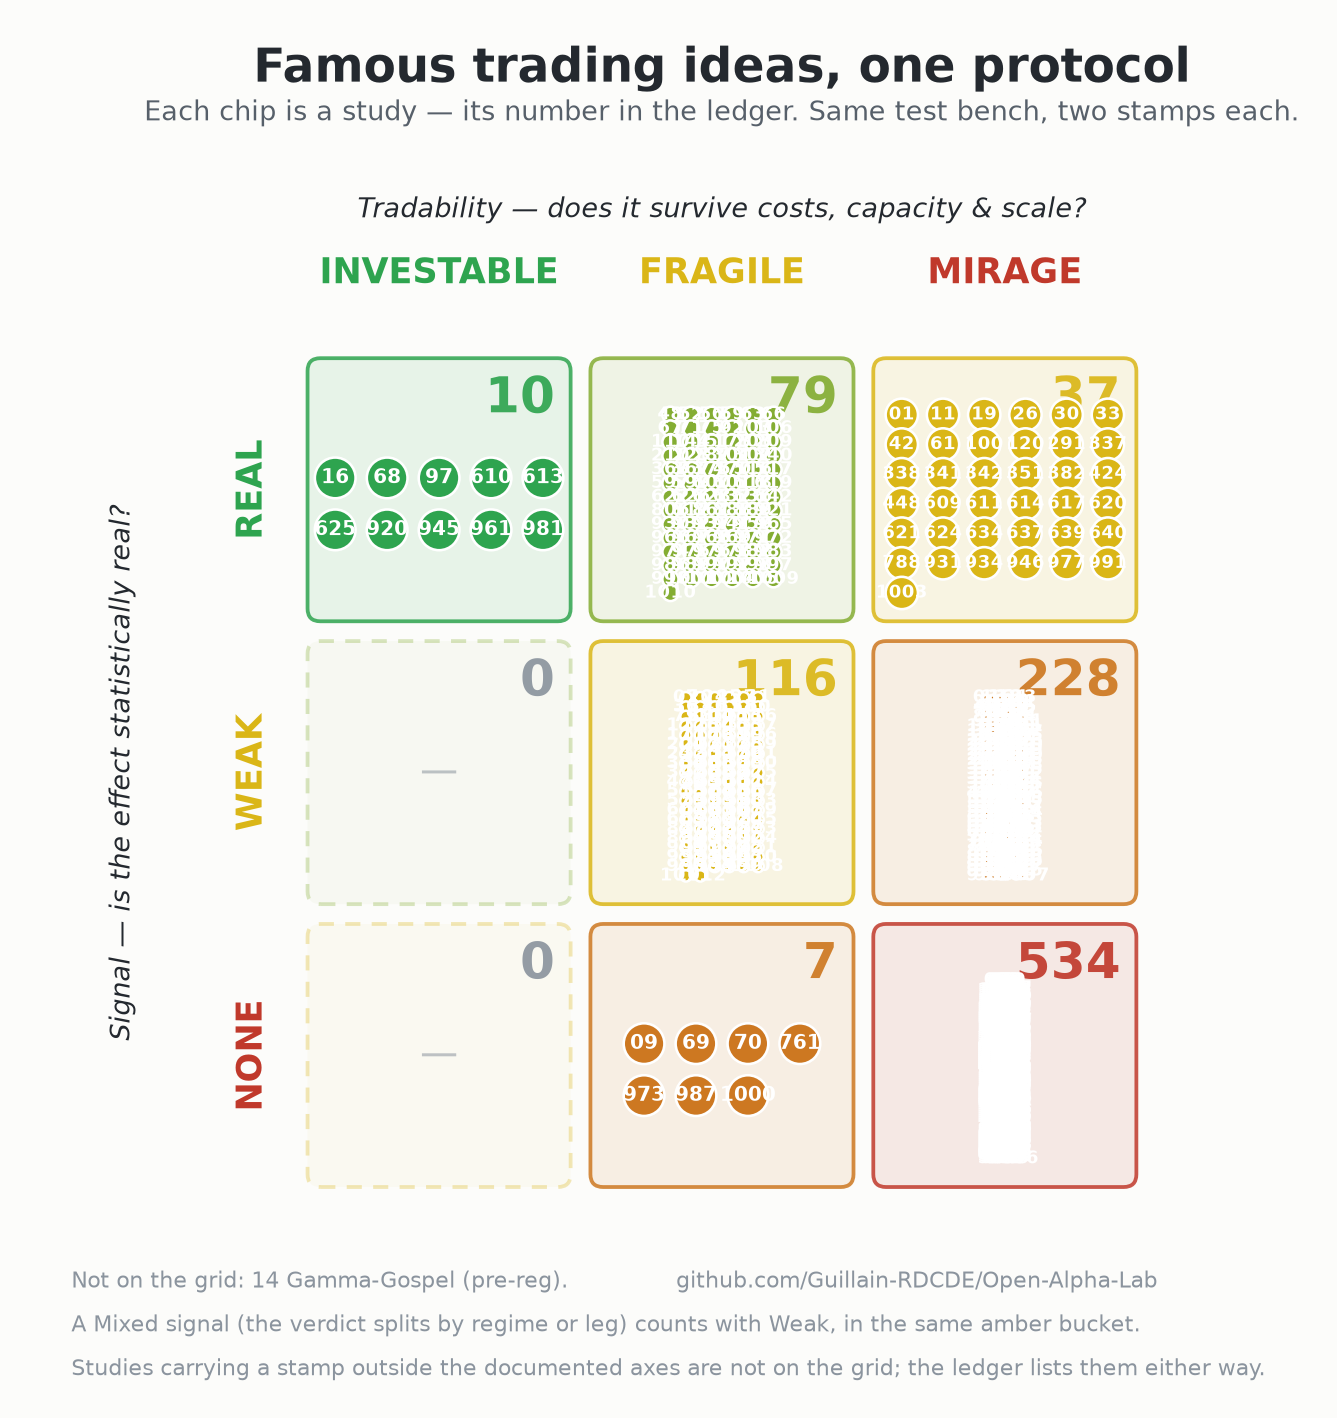
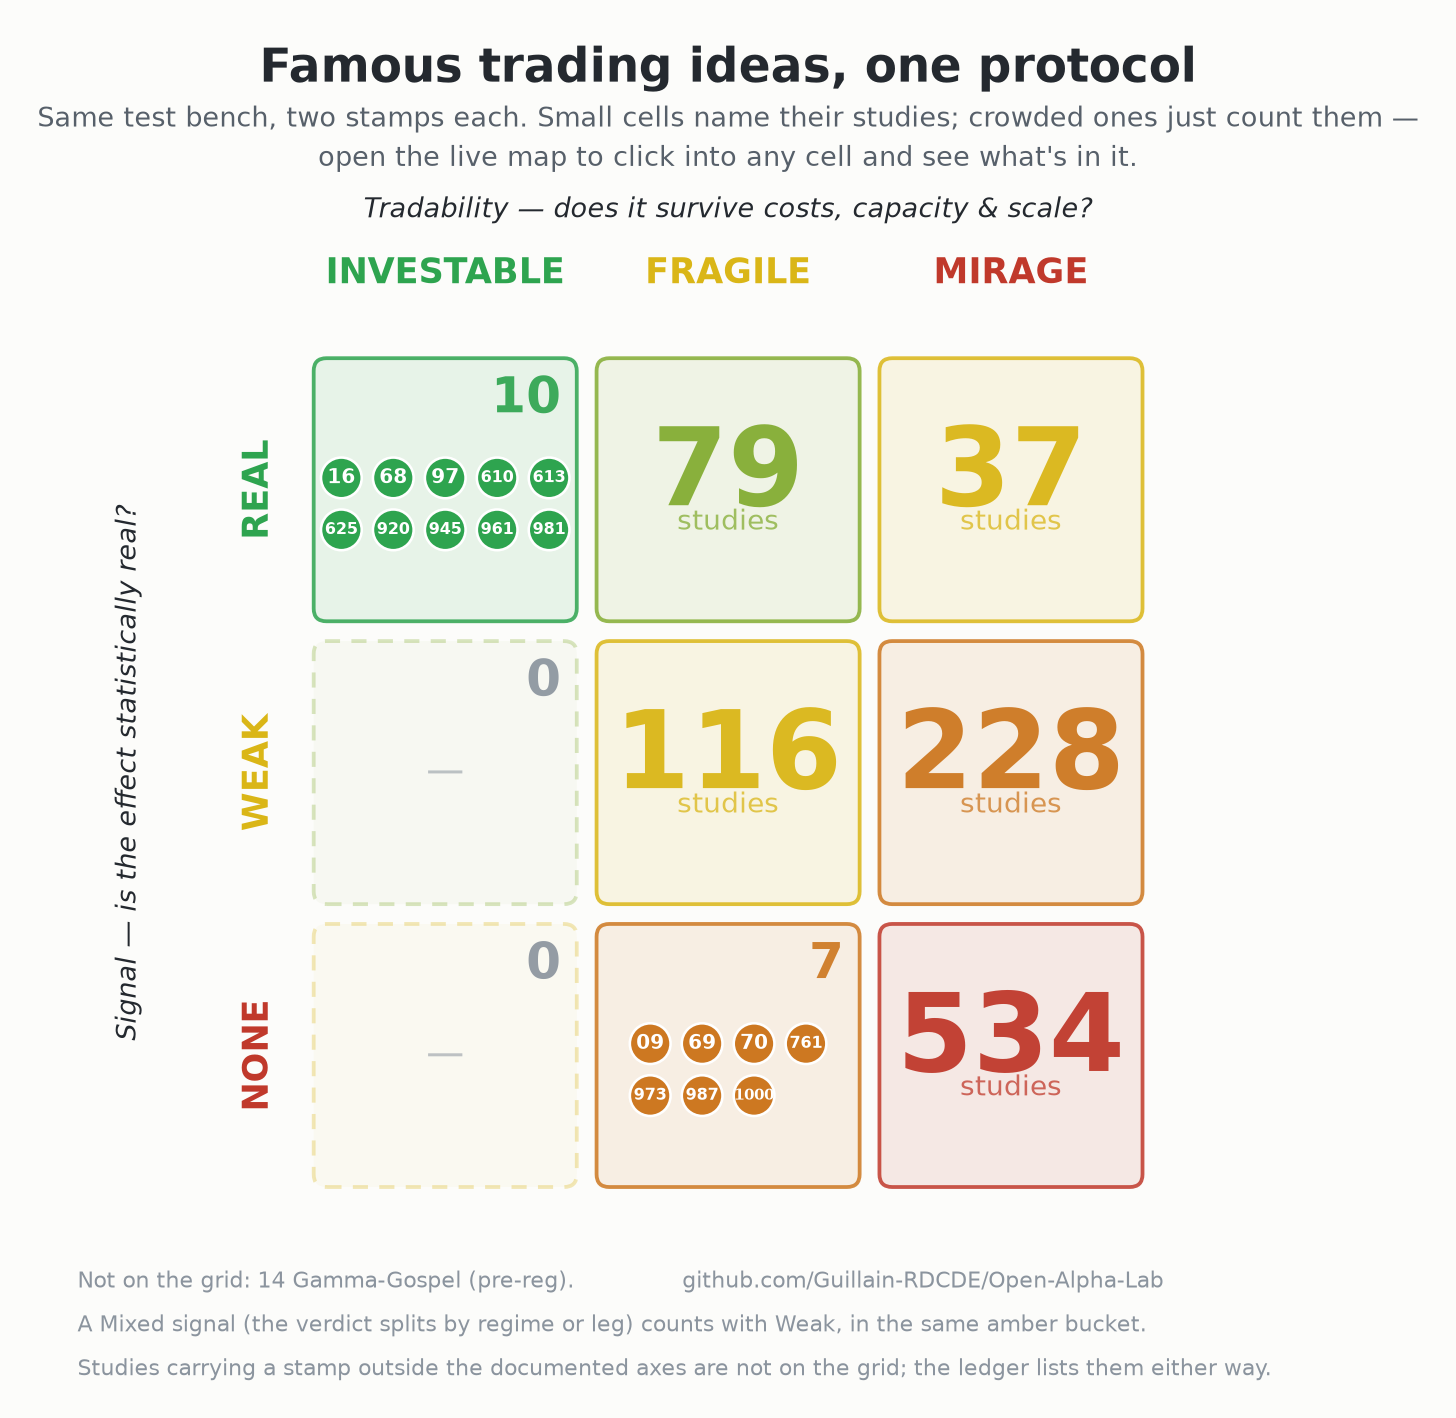
Make the bench map readable: count crowded cells, name small ones
The map printed every study as a numbered chip in its cell. That works at a dozen
studies per cell and fails completely past a hundred: the chips shrink below the
size their own labels need, overlap, and the cell becomes a white smear that tells
the reader less than a bare number would. Four of the nine cells were unreadable
that way, on the landing page.

Now a cell shows its chips only while they fit (24 or fewer) and otherwise prints
its count large and plainly. The two cells worth reading study-by-study - the ten
greens, and the seven None x Fragile - keep their chips; the crowded four become
legible numbers. Three- and four-digit study numbers also get a smaller face so
they stay inside their chip instead of spilling over the edge.

The detail did not disappear, it moved somewhere better. The live map already
filters to a cell when you click its count, so the README now links each cell
straight to that view: GitHub strips image maps and will not run links inside an
SVG, so one picture cannot be clicked square by square - a small table of links
under it can. docs/index.html gains the deep link that makes those land right
(?signal=Real&tradability=Mirage), validated against the axes in bench.json and
ignored if absent.

Two things found while in there:

* The live page injected the corpus total into its own <h1> and document title at
  runtime, so the count sweep never saw it in the source. Removed.
[…]

diff --git a/docs/index.html b/docs/index.html
@@ -342,6 +342,21 @@ function makeCell(sig,trad,members){
   return cell;
 }
 
+// Deep link into one cell: index.html?signal=Real&tradability=Mirage
+// The static map on the README cannot be clicked cell by cell — GitHub strips image maps
+// and will not run links inside an SVG — so the README links each cell here instead, and
+// this is what makes those links land on the right filter instead of the whole bench.
+function applyDeepLink(){
+  const p=new URLSearchParams(location.search);
+  const sig=p.get("signal"), trad=p.get("tradability");
+  if(!sig && !trad) return;
+  if(sig && DATA.signals.includes(sig)) state.signal=new Set([sig]);
+  if(trad && DATA.tradabilities.includes(trad)) state.tradability=new Set([trad]);
+  syncPills();
+  const cell=document.querySelector(`.cell[data-sig="${sig}"][data-trad="${trad}"]`);
+  if(cell) cell.scrollIntoView({block:"center"});
+}
+
 function focusCell(sig,trad){
   // toggle: clicking the same cell again clears it
   const same = state.signal.size===1 && state.signal.has(sig)
@@ -550,15 +565,17 @@ fetch("previews/manifest.json")
 
 fetch("bench.json").then(r=>r.json()).then(d=>{
   DATA=d; REPO=d.repo;
-  document.title=`Open-Alpha-Lab — ${d.total} trading ideas, one protocol`;
-  document.getElementById("title").textContent=`${d.total} famous trading ideas, one protocol`;
+  // No corpus total in the title. The cells carry the counts, and a total in the heading
+  // is one more place that has to be kept in step with everything else.
+  document.title="Open-Alpha-Lab — the bench, live";
+  document.getElementById("title").textContent="famous trading ideas, one protocol";
   document.getElementById("repolink").href=d.repo;
   const sp=(d.special||[]).map(s=>`${String(s.num).padStart(2,"0")} ${s.name} (${s.signal}/${s.tradability})`).join(", ");
   document.getElementById("footer").innerHTML =
     (sp?`Not on the grid: ${sp}. · `:"") +
-    "Study 03's “Mixed” signal counts with Weak (same amber bucket). · " +
-    "Generated from the README table by <code>tools/make_bench_figures.py</code> — always in sync.";
-  buildGrid(); wire(); apply();
+    "A “Mixed” signal counts with Weak (same amber bucket). · " +
+    "Generated from the ledger by <code>tools/make_bench_figures.py</code> — always in sync.";
+  buildGrid(); wire(); applyDeepLink(); apply();
 }).catch(e=>{
   document.getElementById("grid").innerHTML =
     "<p style='color:#c0392b'>Could not load <code>bench.json</code>. "+

diff --git a/tools/make_bench_figures.py b/tools/make_bench_figures.py
@@ -173,6 +173,12 @@ def cell_color(sig: str, trad: str):
     return _lerp(GREEN, AMBER, s) if s <= 1 else _lerp(AMBER, RED, s - 1)
 
 
+# Most chips a cell can show and still be read. Above this the chip radius falls below
+# the size its own two-digit label needs, so the labels collide and the cell becomes a
+# smear. 24 keeps a 5x5-ish block at a radius the numbers still fit inside.
+CHIP_CAP = 24
+
+
 def _chip_layout(n: int):
     """(n_cols, n_rows) for n chips in one cell — at most 6 per row."""
     cols = min(6, max(1, math.ceil(math.sqrt(1.8 * n))))
@@ -207,31 +213,53 @@ def draw(grid, special, total: int, out: Path = OUT) -> None:
             )
             ax.add_patch(box)
 
-            # count, top-right corner of the cell
-            ax.text(x0 + w - 0.055, y0 + h - 0.058, str(len(members)),
-                    ha="right", va="top", fontsize=21, fontweight="bold",
-                    color=col if not empty else GREY, alpha=0.92)
-
             if empty:
+                ax.text(x0 + w - 0.055, y0 + h - 0.058, "0",
+                        ha="right", va="top", fontsize=21, fontweight="bold",
+                        color=GREY, alpha=0.92)
                 ax.text(x0 + w / 2, y0 + h / 2, "—", ha="center", va="center",
                         fontsize=16, color=GREY, alpha=0.55)
                 continue
 
-            # numbered chips, centred in the cell (leaving the count corner room)
-            ncols, nrows = _chip_layout(len(members))
-            r = min(0.072, 0.40 / max(ncols, nrows))   # chip radius
-            step_x = min(2.55 * r, (w - 0.16) / max(ncols - 1, 1)) if ncols > 1 else 0
-            step_y = min(2.55 * r, (h - 0.30) / max(nrows - 1, 1)) if nrows > 1 else 0
-            cx0 = x0 + w / 2 - step_x * (ncols - 1) / 2
-            cy0 = y0 + (h - 0.10) / 2 + step_y * (nrows - 1) / 2
-            for k, st in enumerate(sorted(members, key=lambda s: s["num"])):
-                cx = cx0 + (k % ncols) * step_x
-                cy = cy0 - (k // ncols) * step_y
-                ax.add_patch(Circle((cx, cy), r, facecolor=col,
-                                    edgecolor="white", linewidth=1.1, zorder=3))
-                ax.text(cx, cy, f"{st['num']:02d}", ha="center", va="center",
-                        fontsize=max(7.5, 118 * r), fontweight="bold",
-                        color="white", zorder=4)
+            # How a cell is drawn depends on whether its chips can still be read.
+            #
+            # Every cell used to print every chip. That works while a cell holds a dozen
+            # studies and fails completely past a hundred: the chips shrink below their own
+            # labels, overlap, and the cell turns into a white smear that says less than a
+            # bare number would. Four cells on this bench were unreadable that way.
+            #
+            # So: draw the chips only while they fit, and otherwise make the count itself
+            # the content. The detail has a better home anyway -- the live page, where the
+            # cell is clickable and the studies are listed.
+            legible = len(members) <= CHIP_CAP
+            if legible:
+                ax.text(x0 + w - 0.055, y0 + h - 0.058, str(len(members)),
+                        ha="right", va="top", fontsize=21, fontweight="bold",
+                        color=col, alpha=0.92)
+                ncols, nrows = _chip_layout(len(members))
+                r = min(0.072, 0.40 / max(ncols, nrows))   # chip radius
+                step_x = min(2.55 * r, (w - 0.16) / max(ncols - 1, 1)) if ncols > 1 else 0
+                step_y = min(2.55 * r, (h - 0.30) / max(nrows - 1, 1)) if nrows > 1 else 0
+                cx0 = x0 + w / 2 - step_x * (ncols - 1) / 2
+                cy0 = y0 + (h - 0.10) / 2 + step_y * (nrows - 1) / 2
+                for k, st in enumerate(sorted(members, key=lambda s: s["num"])):
+                    cx = cx0 + (k % ncols) * step_x
+                    cy = cy0 - (k // ncols) * step_y
+                    ax.add_patch(Circle((cx, cy), r, facecolor=col,
+                                        edgecolor="white", linewidth=1.1, zorder=3))
+                    label = f"{st['num']:02d}"
+                    # A four-digit study number needs a smaller face than a two-digit one
+                    # or it runs out over the edge of its own chip.
+                    shrink = {2: 1.0, 3: 0.80, 4: 0.62}.get(len(label), 0.62)
+                    ax.text(cx, cy, label, ha="center", va="center",
+                            fontsize=max(6.5, 118 * r * shrink), fontweight="bold",
+                            color="white", zorder=4)
+            else:
+                ax.text(x0 + w / 2, y0 + h / 2 + 0.045, str(len(members)),
+                        ha="center", va="center", fontsize=46, fontweight="bold",
+                        color=col, alpha=0.95)
+                ax.text(x0 + w / 2, y0 + h / 2 - 0.115, "studies",
+                        ha="center", va="center", fontsize=12, color=col, alpha=0.75)
 
     # ----- axis headers -------------------------------------------------
     for j, trad in enumerate(TRADABILITIES):
@@ -255,9 +283,10 @@ def draw(grid, special, total: int, out: Path = OUT) -> None:
     # totals at once. The chips themselves show the size; the ledger is where you count.
     ax.text(1.5, 4.07, "Famous trading ideas, one protocol",
             ha="center", va="top", fontsize=20, fontweight="bold", color=INK)
-    ax.text(1.5, 3.88, "Each chip is a study — its number in the ledger. "
-                       "Same test bench, two stamps each.",
-            ha="center", va="top", fontsize=11.5, color="#57606a")
+    ax.text(1.5, 3.88, "Same test bench, two stamps each. Small cells name their studies; "
+                       "crowded ones just count them —\nopen the live map to click into any "
+                       "cell and see what's in it.",
+            ha="center", va="top", fontsize=11.5, color="#57606a", linespacing=1.45)
 
     notes = []
     if special:

diff --git a/README.md b/README.md
@@ -49,9 +49,18 @@ every study and is the only place worth counting.
 
 [![The bench map — every study placed on a Signal × Tradability grid](docs/bench_map.png)](https://guillain-rdcde.github.io/Open-Alpha-Lab/)
 
+**Open a cell** — each link lands on the live map already filtered to that square, listing
+every study in it:
+
+| | Investable | Fragile | Mirage |
+|---|:--:|:--:|:--:|
+| **Real** | [open →](https://guillain-rdcde.github.io/Open-Alpha-Lab/?signal=Real&tradability=Investable) | [open →](https://guillain-rdcde.github.io/Open-Alpha-Lab/?signal=Real&tradability=Fragile) | [open →](https://guillain-rdcde.github.io/Open-Alpha-Lab/?signal=Real&tradability=Mirage) |
+| **Weak** | — | [open →](https://guillain-rdcde.github.io/Open-Alpha-Lab/?signal=Weak&tradability=Fragile) | [open →](https://guillain-rdcde.github.io/Open-Alpha-Lab/?signal=Weak&tradability=Mirage) |
+| **None** | — | [open →](https://guillain-rdcde.github.io/Open-Alpha-Lab/?signal=None&tradability=Fragile) | [open →](https://guillain-rdcde.github.io/Open-Alpha-Lab/?signal=None&tradability=Mirage) |
+
 > **▶ [Explore the live map](https://guillain-rdcde.github.io/Open-Alpha-Lab/)** — the same grid, but zoomable:
 > **click any chip to open its study**, search by name or claim, and filter the whole bench by verdict.
-> (The static image above never gets less readable; the interactive page is where it scales.)
+> (GitHub can't make one image clickable square by square, which is what the table above is for.)
 
 ---
 

diff --git a/docs/bench.md b/docs/bench.md
@@ -9,7 +9,10 @@ every verdict below links back to the study that earned it.*
 ![The bench map — every study on a Signal × Tradability grid](bench_map.png)
 
 *(Regenerate with `python tools/make_bench_figures.py` — it parses the
-[ledger](REFERENCE.md), so it's always in sync.)*
+[ledger](REFERENCE.md), so it's always in sync. A cell shows its studies by number while
+they still fit and just counts them when they don't; the
+**[live map](https://guillain-rdcde.github.io/Open-Alpha-Lab/)** is where you click into
+one and read what's inside.)*
 
 > **Counting happens in one place.** This page describes shape, not totals. The
 > [ledger](REFERENCE.md) is the only complete list, the map above is redrawn from it, and
